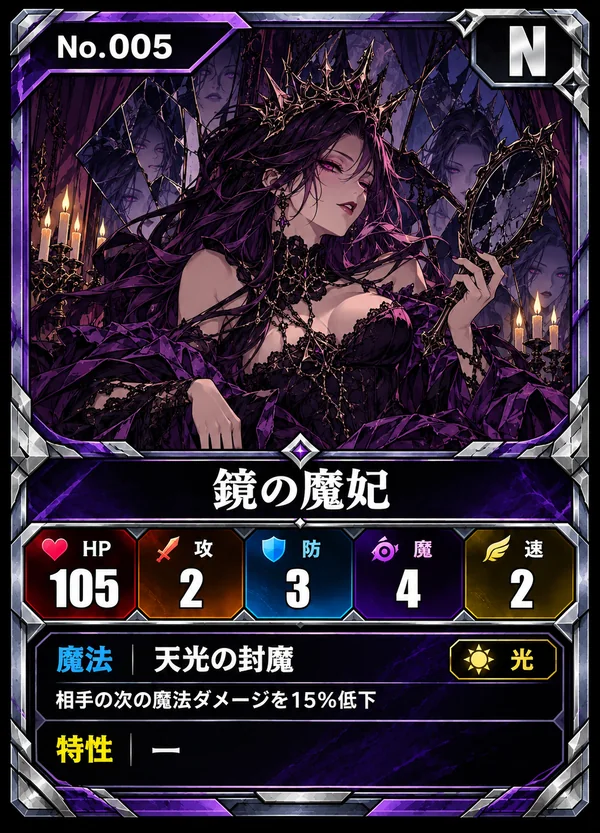
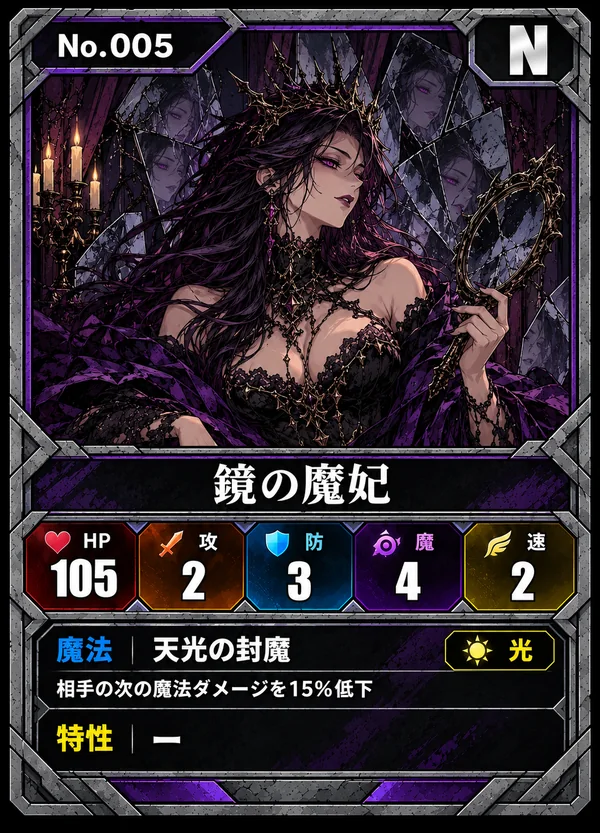
MYTHCLASH: No.005 鏡の魔妃のカードの絵を新しい絵に差しかえ。前の絵は unused/
Claude-Session: https://claude.ai/code/session_01MXithgTc5umkveoyZShZHQ

diff --git a/docs/MYTHCLASH.md b/docs/MYTHCLASH.md
@@ -181,7 +181,7 @@
   - No.026 天空神ゼウス：特性が「ー」だった → 「雷帝の威光」に直した（ほかは表どおり）。魔法の説明に「（50%）」を足した（20%の弱化はコイントスで50%。企画者「50%いれてほしい」）。
 - カードを大きく見たとき（バインダー・パック開封・デッキ編成・階の画面・バトル）、下に「特性：名前」と効果の説明を出す。特性がないカードは「特性：なし」（企画者 2026-10-27「特性が判断できるように」。`describe.ts` の abilityLines）。
 - 50%の確率（コイントス）で効く魔法（睡眠・凍結・毒・火傷・20%以上の弱化）は、カードの説明に「(50%)」を足す（企画者「足して」2026-10-27。No.003・No.026。これから届くカードも同じ）。
-  - No.005 鏡の魔妃：表どおり（直す所なし）。
+  - No.005 鏡の魔妃：表どおり（直す所なし）。企画者の新しい絵に差しかえた（2026-10-28。前の絵は `design/mythclash/cards/unused/`）。
 - 届いたカード：No.001〜005・026・101。
 
 ### 名前を BLOOD TOWER に（2026-10-27）【確定】
